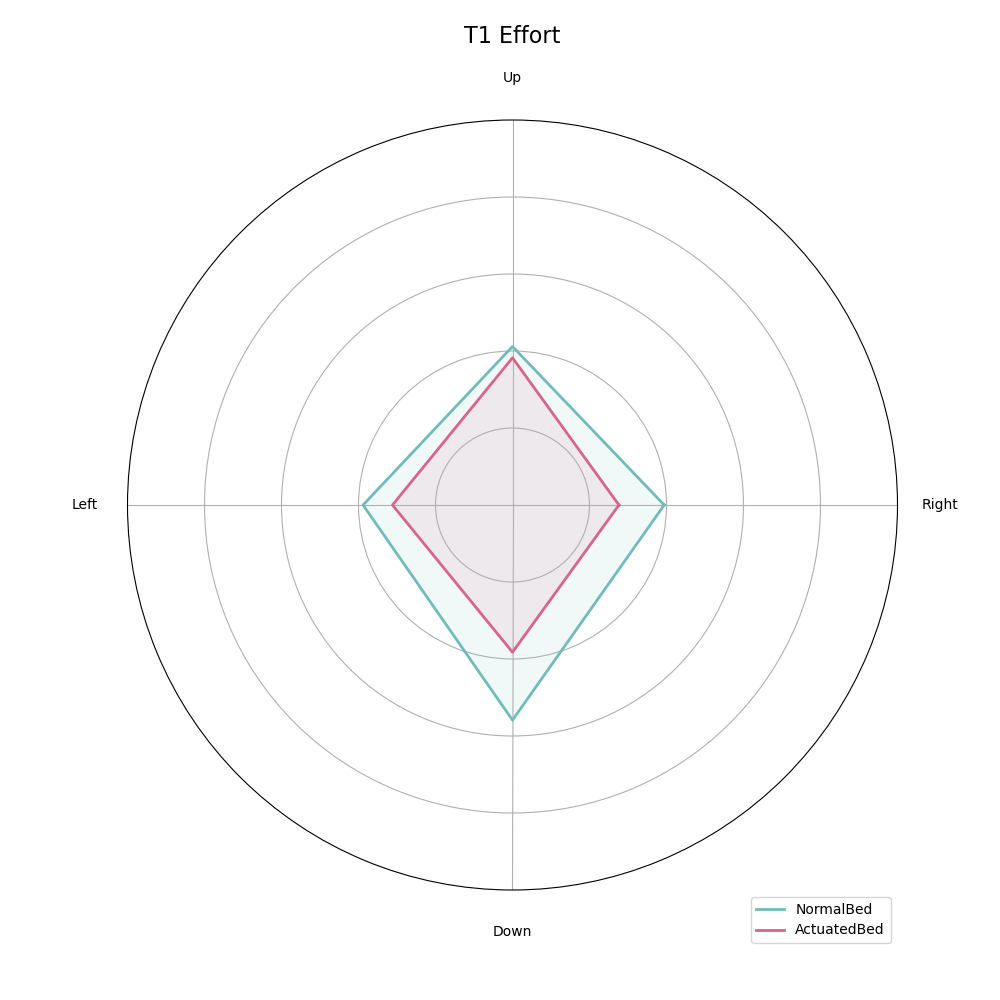
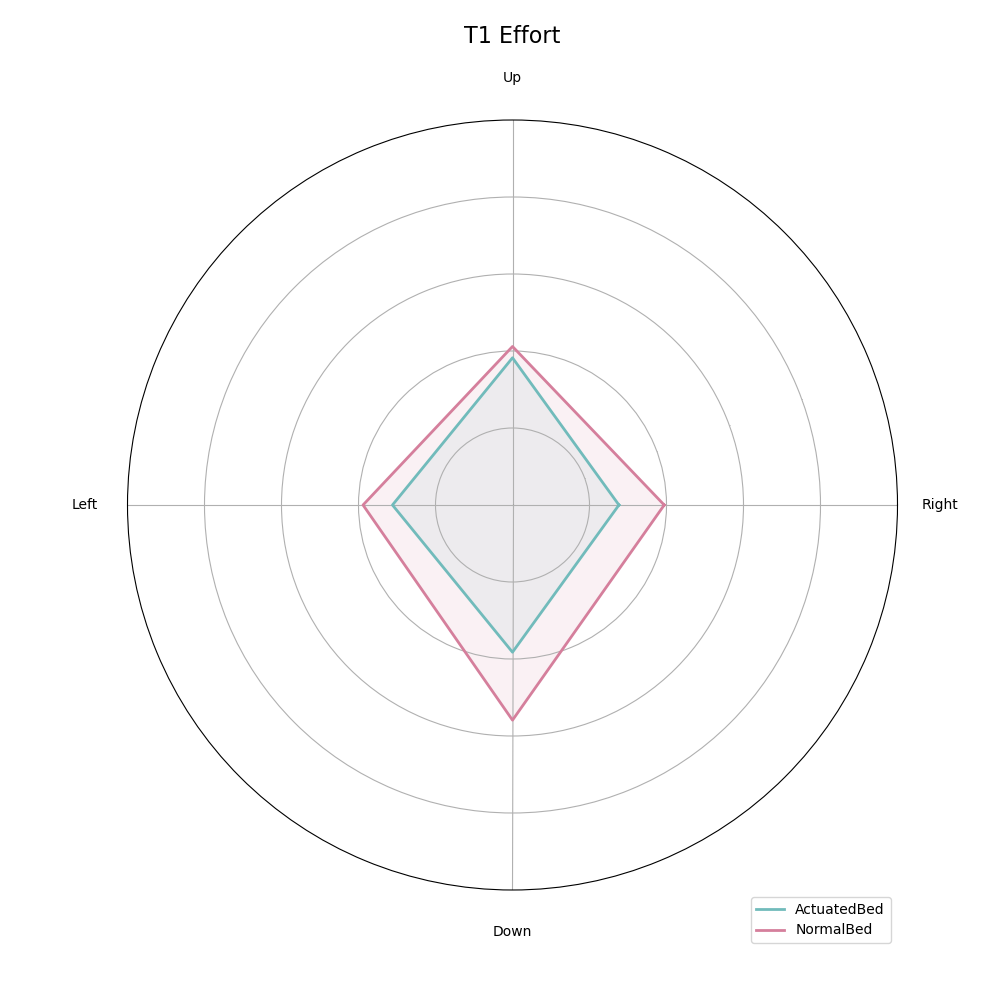
change color again

diff --git a/Summative/Freeplay_DrawLikert.py b/Summative/Freeplay_DrawLikert.py
@@ -36,11 +36,11 @@ print(ComfortData)
 fig, axes = plt.subplots(figsize=(12, 4), ncols=2, sharey=True)
 fig.tight_layout()
 
-for i, condition in enumerate(Conditions):
+for i, condition in enumerate(reversed(Conditions)):
     data = np.array(list(ComfortData[condition].values()))
     data_cum = data.cumsum(axis=1)
 
-    axes[i].set_title(condition, color=Colors[i][2])
+    axes[i].set_title(condition, color=Colors[(i+1)%2][4])
     axes[i].set_xlim(0, 14)
     axes[i].set_xticks([0, 2, 4, 6, 8, 10, 12, 14])
 
@@ -53,7 +53,7 @@ for i, condition in enumerate(Conditions):
             left=starts,
             align="center",
             height=0.4,
-            color=Colors[i][j],
+            color=Colors[(i+1)%2][j],
         )
         for rect in rects:
             x, y = rect.get_xy()
@@ -100,11 +100,11 @@ print(PreferenceData)
 fig, axes = plt.subplots(figsize=(12, 4), ncols=2, sharey=True)
 fig.tight_layout()
 
-for i, condition in enumerate(Conditions):
+for i, condition in enumerate(reversed(Conditions)):
     data = np.array(list(PreferenceData[condition].values()))
     data_cum = data.cumsum(axis=1)
 
-    axes[i].set_title(condition, color=Colors[i][2])
+    axes[i].set_title(condition, color=Colors[(i+1)%2][4])
     axes[i].set_xlim(0, 14)
     axes[i].set_xticks([0, 2, 4, 6, 8, 10, 12, 14])
 
@@ -117,7 +117,7 @@ for i, condition in enumerate(Conditions):
             left=starts,
             align="center",
             height=0.4,
-            color=Colors[i][j],
+            color=Colors[(i+1)%2][j],
         )
         for rect in rects:
             x, y = rect.get_xy()

diff --git a/Formative/T2_EffortBarChart.py b/Formative/T2_EffortBarChart.py
@@ -67,21 +67,21 @@ fig, ax = plt.subplots(figsize=(15, 10))
 # Draw
 fig, ax = plt.subplots(figsize=(15, 10))
 ax.bar(
-    x - width / 2,
-    data["Lying"],
-    width,
-    color=Colors[0][4],
-    label="Lying",
-    yerr=std_data["Lying"],
-    capsize=3,
-)
-ax.bar(
     x + width / 2,
     data["Standing"],
     width,
-    color=Colors[1][4],
+    color=Colors[0][4],
     label="Standing",
     yerr=std_data["Standing"],
+    capsize=3,
+)
+ax.bar(
+    x - width / 2,
+    data["Lying"],
+    width,
+    color=Colors[1][4],
+    label="Lying",
+    yerr=std_data["Lying"],
     capsize=3,
 )
 

diff --git a/Summative/Constant.py b/Summative/Constant.py
@@ -1,7 +1,7 @@
 RootDir = "./Summative"
 
 Participants = list(range(1, 16 + 1))
-Conditions = ["NormalBed", "ActuatedBed"]
+Conditions = ["ActuatedBed", "NormalBed"]
 Directions = ["Right", "Up", "Left", "Down"]
 Applications = ["Ecosphere", "Archery"]
 Points = list(range(1, 5 + 1))

diff --git a/Formative/Constant.py b/Formative/Constant.py
@@ -1,7 +1,7 @@
 RootDir = "./Formative"
 
 Participants = list(range(1, 16 + 1))
-Postures = ["Lying", "Standing"]
+Postures = ["Standing", "Lying"]
 Directions_num = ["0", "45", "90", "135", "180", "225", "270", "315"]
 Directions = [
     "Right",
